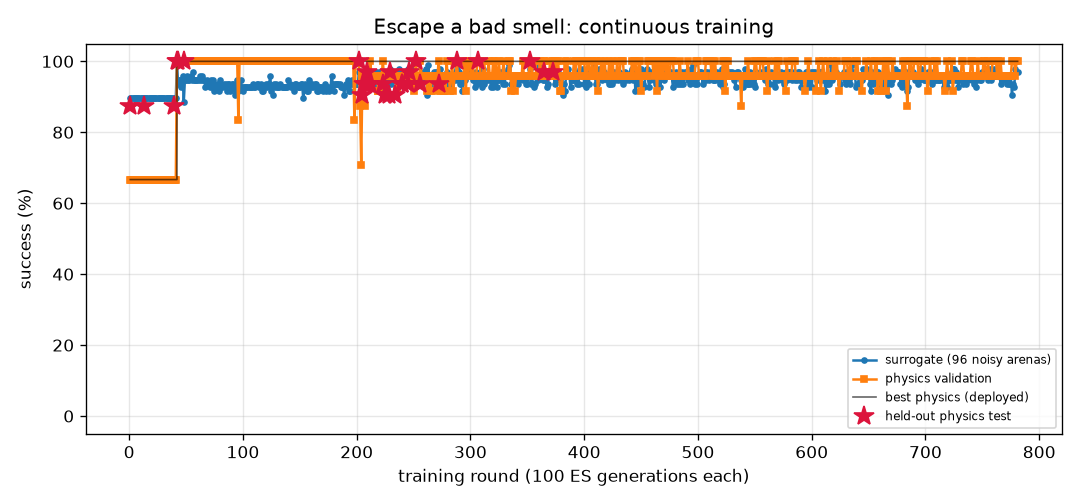
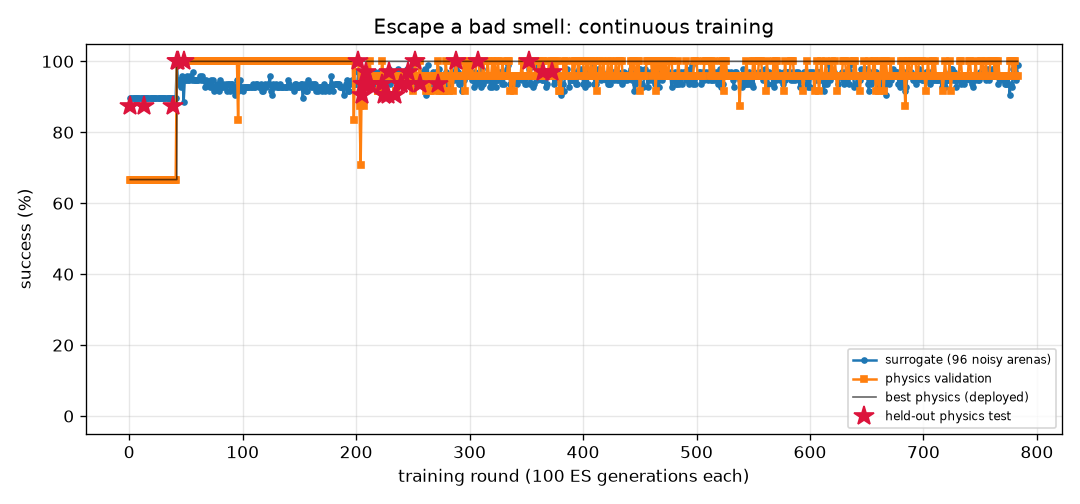
FlyLab: continuous training progress
- walk_forward: optimal, physics val 100% of 24, round 288
- turn: optimal, physics val 100% of 24, round 866
- goto: optimal, physics val 100% of 24, round 236
- odor_seek: optimal, physics val 100% of 24, round 195
- odor_avoid: optimal, physics val 100% of 24, round 783
- light_seek: optimal, physics val 100% of 24, round 430
- light_avoid: optimal, physics val 100% of 24, round 518

diff --git a/projects/09_flylab/training/odor_avoid/REPORT.md b/projects/09_flylab/training/odor_avoid/REPORT.md
@@ -1,14 +1,14 @@
 # Escape a bad smell (`odor_avoid`) — training report
 
-*Auto-generated by `train_brains.py`, last updated 2026-11-05T10:29:02.*
+*Auto-generated by `train_brains.py`, last updated 2026-11-05T10:54:06.*
 
 ![curve](curve.png)
 
 | | |
 |---|---|
-| rounds | 781 |
-| ES generations | 78100 |
-| physics runs | 16050 |
+| rounds | 783 |
+| ES generations | 78300 |
+| physics runs | 16098 |
 | status | **optimal** |
 | best brain | round 373: physics validation **100%** on 24 arenas, surrogate 97% |
 | held-out physics test | **97%** on 32 unseen arenas (95% CI 84%-99%) (errors: [62.0, 57.4, 62.6, 61.9, 59.0, 61.6, 56.5, 60.7, 31.7, 60.9, 63.1, 57.1, 61.1, 62.1, 61.5, 60.2, 62.2, 55.2, 62.1, 54.2, 61.3, 62.0, 58.0, 61.9, 59.8, 56.5, 56.3, 56.4, 56.3, 57.7, 61.9, 32.4]) |
@@ -17,8 +17,6 @@ Physics error per arena: mm gained away from source (> 6 without first approachi
 
 | round | level | gens | sigma | surrogate | physics val | val errors | test | note |
 |---:|---:|---:|---:|---:|---:|---|---:|---|
-| 742 | 3 | 74200 | 0.026 | 95% | 96% | [61.7, 59.8, 55.7, 59.6, 61.7, 38.6, 61.9, 40.8, 61.9, 39.3, 47.9, 61.7, 51.0, 55.2, 35.3, 59.7, 61.7, 48.5, 50.9, 56.5, 61.2, 41.4, 59.7, 31.4] |  |  |
-| 743 | 3 | 74300 | 0.027 | 94% | 96% | [60.3, 53.6, 56.2, 57.6, 58.3, 60.7, 61.0, 57.8, 60.8, 58.5, 53.2, 61.0, 48.1, 55.7, 3.0, 61.4, 61.0, 60.7, 49.4, 54.1, 60.7, 60.3, 57.6, 60.1] |  |  |
 | 744 | 3 | 74400 | 0.028 | 93% | 96% | [60.3, 52.9, 56.2, 56.8, 61.3, 60.7, 58.8, 25.5, 59.3, 53.8, 57.3, 61.5, 54.5, 56.5, 50.5, 61.4, 61.2, 61.3, 54.5, 53.1, 61.3, 60.8, 57.2, 59.4] |  |  |
 | 745 | 3 | 74500 | 0.028 | 95% | 96% | [61.4, 58.9, 56.4, 59.8, 61.1, 45.3, 61.7, 59.5, 61.4, 50.2, 33.5, 61.9, 50.7, 53.4, 42.3, 61.1, 60.9, 60.0, 49.8, 55.4, 61.2, 48.2, 56.7, 59.8] |  | restart from best |
 | 746 | 3 | 74600 | 0.026 | 96% | 100% | [61.9, 60.4, 56.0, 61.0, 62.2, 62.0, 61.7, 39.3, 62.1, 60.5, 60.0, 61.8, 51.7, 55.9, 19.9, 60.4, 61.6, 61.1, 55.2, 60.1, 61.7, 49.6, 59.8, 44.7] |  |  |
@@ -57,3 +55,5 @@ Physics error per arena: mm gained away from source (> 6 without first approachi
 | 779 | 3 | 77900 | 0.028 | 98% | 96% | [62.8, 60.1, 56.5, 59.5, 62.4, 60.9, 61.9, 23.0, 61.3, 59.6, 61.3, 61.9, 51.9, 56.2, 38.3, 62.3, 61.8, 62.1, 55.0, 57.0, 62.3, 60.6, 59.4, 44.6] |  |  |
 | 780 | 3 | 78000 | 0.025 | 97% | 100% | [61.5, 57.2, 56.4, 60.6, 62.4, 61.6, 62.5, 36.2, 62.2, 52.2, 61.5, 62.0, 51.5, 56.4, 50.1, 61.5, 62.2, 61.1, 54.3, 60.1, 62.3, 62.2, 59.7, 46.1] |  |  |
 | 781 | 3 | 78100 | 0.026 | 97% | 100% | [61.6, 60.7, 56.3, 60.6, 60.6, 61.7, 62.2, 60.5, 62.2, 43.9, 23.0, 61.8, 49.4, 56.3, 28.3, 61.7, 61.7, 62.0, 49.8, 57.5, 61.9, 55.4, 60.1, 61.8] |  | restart from best |
+| 782 | 3 | 78200 | 0.026 | 95% | 96% | [62.3, 59.7, 56.2, 61.0, 61.4, 62.7, 62.7, 53.2, 62.7, 60.0, 55.6, 62.0, 51.7, 54.8, 43.3, 62.6, 62.2, 62.7, 51.7, 58.2, 61.9, 61.1, 59.5, 63.1] |  |  |
+| 783 | 3 | 78300 | 0.027 | 99% | 96% | [61.2, 59.5, 57.7, 60.1, 61.4, 62.8, 62.2, 36.8, 61.9, 61.5, 61.6, 61.0, 52.1, 58.0, 32.8, 61.4, 61.5, 62.2, 54.5, 55.7, 61.5, 61.2, 60.2, 56.8] |  |  |

diff --git a/projects/09_flylab/training/light_avoid/REPORT.md b/projects/09_flylab/training/light_avoid/REPORT.md
@@ -1,14 +1,14 @@
 # Hide from light (`light_avoid`) — training report
 
-*Auto-generated by `train_brains.py`, last updated 2026-11-04T23:30:04.*
+*Auto-generated by `train_brains.py`, last updated 2026-11-05T10:44:09.*
 
 ![curve](curve.png)
 
 | | |
 |---|---|
-| rounds | 517 |
-| ES generations | 51700 |
-| physics runs | 12680 |
+| rounds | 518 |
+| ES generations | 51800 |
+| physics runs | 12704 |
 | status | **optimal** |
 | best brain | round 159: physics validation **100%** on 24 arenas, surrogate 100% |
 | held-out physics test | **100%** on 32 unseen arenas (95% CI 89%-100%) (errors: [14.4, 56.1, 58.0, 57.9, 57.5, 14.0, 14.4, 56.6, 56.8, 13.3, 14.1, 56.6, 57.6, 13.1, 57.3, 55.9, 57.2, 55.0, 55.2, 53.9, 55.2, 12.4, 53.8, 53.7, 14.1, 13.7, 55.0, 57.8, 56.2, 13.1, 52.8, 56.5]) |
@@ -17,7 +17,6 @@ Physics error per arena: mm gained away from source (> 6 without first approachi
 
 | round | level | gens | sigma | surrogate | physics val | val errors | test | note |
 |---:|---:|---:|---:|---:|---:|---|---:|---|
-| 478 | 3 | 47800 | 0.024 | 100% | 100% | [57.4, 61.0, 60.9, 57.7, 58.9, 57.9, 60.2, 14.5, 54.4, 13.2, 59.6, 58.6, 14.4, 56.4, 61.0, 57.6, 14.2, 59.6, 61.3, 14.4, 57.7, 59.9, 59.9, 57.8] |  |  |
 | 479 | 3 | 47900 | 0.024 | 100% | 100% | [44.1, 44.7, 44.9, 44.2, 41.9, 44.1, 44.8, 14.5, 39.2, 13.3, 44.1, 41.6, 14.4, 41.6, 45.2, 44.2, 14.2, 42.8, 45.0, 14.4, 43.3, 43.7, 43.6, 41.0] |  | restart from best |
 | 480 | 3 | 48000 | 0.024 | 100% | 100% | [35.3, 34.4, 33.8, 35.5, 35.9, 35.5, 33.4, 14.5, 35.2, 13.2, 33.6, 36.2, 14.4, 34.5, 34.2, 35.4, 14.2, 36.3, 36.5, 14.4, 34.5, 35.4, 32.0, 36.4] |  |  |
 | 481 | 3 | 48100 | 0.024 | 100% | 96% | [55.0, 59.8, 59.6, 55.8, 59.3, 56.0, 58.2, 14.5, 46.1, 13.3, 58.9, 59.2, 14.4, 56.4, 59.7, 55.4, 14.2, 59.8, 60.1, 14.4, 57.7, 59.0, 57.8, 58.5] |  |  |
@@ -57,3 +56,4 @@ Physics error per arena: mm gained away from source (> 6 without first approachi
 | 515 | 3 | 51500 | 0.025 | 100% | 100% | [57.2, 61.4, 61.1, 58.0, 61.2, 58.2, 59.7, 14.5, 56.8, 13.4, 60.9, 61.0, 14.4, 59.2, 61.3, 56.9, 14.2, 61.7, 61.6, 14.4, 58.7, 60.4, 59.4, 60.5] |  | restart from best |
 | 516 | 3 | 51600 | 0.024 | 100% | 100% | [51.7, 54.0, 53.5, 53.1, 56.3, 51.9, 51.6, 14.5, 54.3, 13.0, 56.2, 56.1, 14.4, 54.7, 53.5, 51.4, 14.2, 56.2, 54.1, 14.4, 52.3, 56.2, 52.0, 55.9] |  |  |
 | 517 | 3 | 51700 | 0.024 | 100% | 100% | [57.4, 61.6, 61.4, 57.9, 61.0, 58.7, 60.1, 14.5, 57.4, 13.0, 60.1, 60.9, 14.4, 58.3, 61.5, 56.9, 14.2, 61.6, 61.9, 14.4, 56.6, 60.6, 59.8, 60.2] |  |  |
+| 518 | 3 | 51800 | 0.024 | 100% | 100% | [52.6, 54.3, 54.0, 52.8, 49.1, 52.6, 54.2, 14.5, 12.7, 13.4, 46.9, 48.5, 14.4, 49.2, 54.2, 52.9, 14.2, 50.5, 53.4, 14.4, 52.4, 52.0, 54.1, 47.5] |  |  |

diff --git a/projects/09_flylab/training/TRAINING.md b/projects/09_flylab/training/TRAINING.md
@@ -1,6 +1,6 @@
 # FlyLab brains — continuous training log
 
-*Auto-generated by `train_brains.py`, last updated 2026-11-05T10:32:23.*
+*Auto-generated by `train_brains.py`, last updated 2026-11-05T10:54:06.*
 
 Every skill has its own brain and its own training process: surrogate ES rounds, physics validation in MuJoCo, keep-the-best selection, and a held-out physics test that is never used for selection. See each skill's report for its full round-by-round history. Mastery is progressive: passing a level (100% physics validation, >=95% surrogate) doubles the validation and test arena sets; a brain is **optimal** once it holds up at level 3 (>=95% of 24 validation arenas) AND scores >=90% on the 32 held-out test arenas. Test columns show 95% Wilson confidence intervals.
 
@@ -10,6 +10,6 @@ Every skill has its own brain and its own training process: surrogate ES rounds,
 | [Turn in place](turn/REPORT.md) | 866 | 86600 | 21030 | 100% | 100% of 24 | 97% of 32 (CI 84-99%) | **optimal** |
 | [Go to a location](goto/REPORT.md) | 236 | 23600 | 5614 | 100% | 100% of 24 | 100% of 32 (CI 89-100%) | **optimal** |
 | [Find food by smell](odor_seek/REPORT.md) | 195 | 19500 | 4110 | 100% | 100% of 24 | 100% of 32 (CI 89-100%) | **optimal** |
-| [Escape a bad smell](odor_avoid/REPORT.md) | 781 | 78100 | 16050 | 97% | 100% of 24 | 97% of 32 (CI 84-99%) | **optimal** |
+| [Escape a bad smell](odor_avoid/REPORT.md) | 783 | 78300 | 16098 | 97% | 100% of 24 | 97% of 32 (CI 84-99%) | **optimal** |
 | [Walk toward light](light_seek/REPORT.md) | 430 | 43000 | 7200 | 100% | 100% of 24 | 100% of 32 (CI 89-100%) | **optimal** |
-| [Hide from light](light_avoid/REPORT.md) | 517 | 51700 | 12680 | 100% | 100% of 24 | 100% of 32 (CI 89-100%) | **optimal** |
+| [Hide from light](light_avoid/REPORT.md) | 518 | 51800 | 12704 | 100% | 100% of 24 | 100% of 32 (CI 89-100%) | **optimal** |
